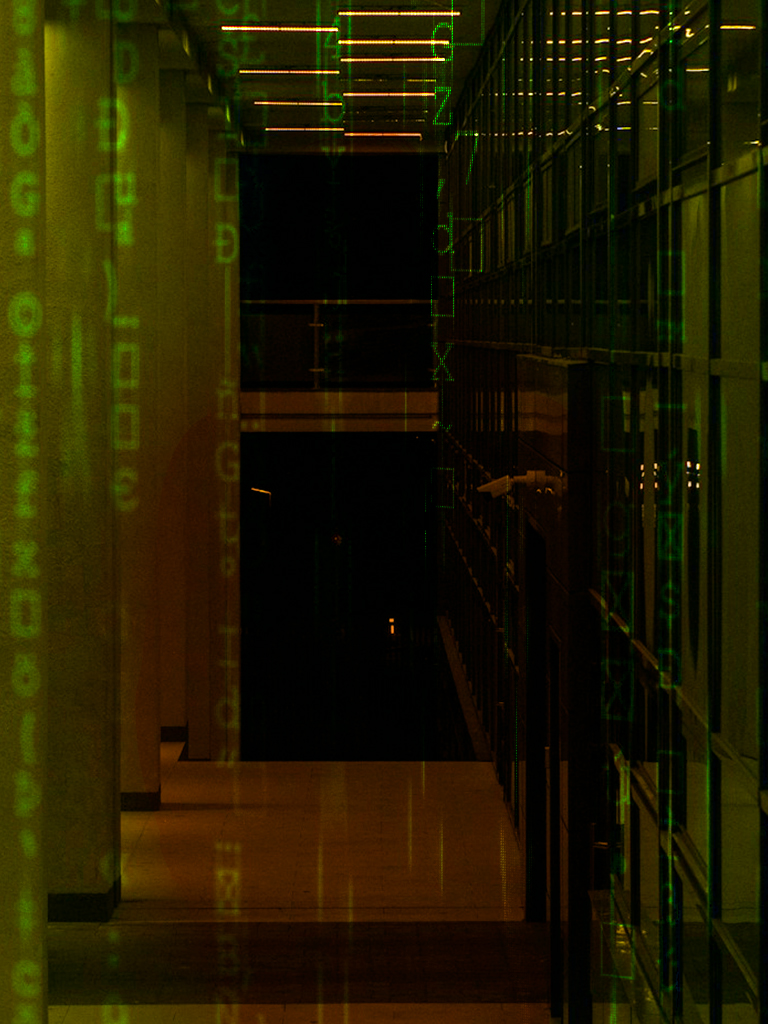
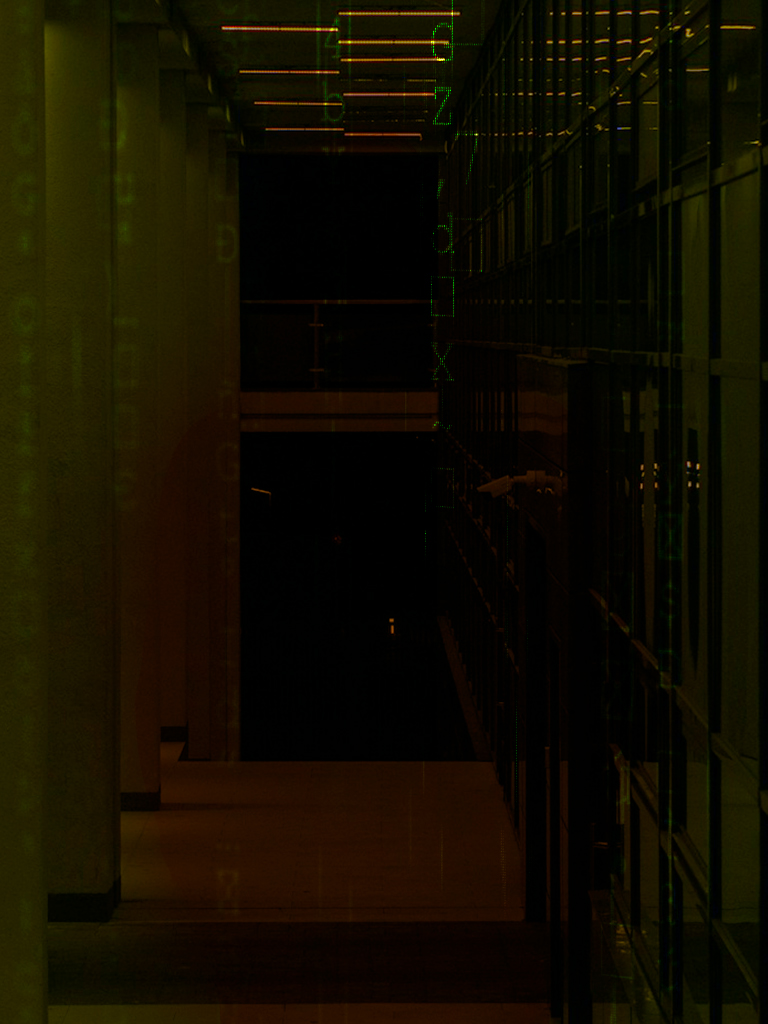
thumbnail fixes

diff --git a/assets/css/layouts/lightbox.css b/assets/css/layouts/lightbox.css
@@ -1,4 +1,15 @@
-.lightbox-content img {
+.bp-inner img {
     max-width: 100vw;
     max-height: 100vh;
+
+    object-fit: contain;
+    cursor: default;
 }
+
+.portfolio .bp-x,
+.bp-inner {
+    cursor: zoom-out;
+}
+
+
+

diff --git a/assets/css/page/cv.css b/assets/css/page/cv.css
@@ -127,6 +127,14 @@ ul {
     padding: 1.5rem;
     opacity: 0.35;
 }
+@media (min-width: 1400px) {
+    .actions {
+        width: var(--padding);
+    }
+    .actions__btn {
+        padding: 0;
+    }
+}
 .actions:hover {
     opacity: 1;
 }

diff --git a/scripts/script.js b/scripts/script.js
@@ -1,8 +1,8 @@
 document.addEventListener('DOMContentLoaded', function() {
   const bp = BiggerPicture({
-    target: document.body,
-    animation: 'fade',           // меняем анимацию на fade (вместо странного растяжения)
-    animationDuration: 150,      // длительность в мс
+      target: document.body,
+    intro: 'fade',
+    animationDuration: 150,      // длительность в мс      // длительность анимации в мс
     backgroundClose: true,       // закрытие по клику на фон
     keyboard: true,              // навигация с клавиатуры
     scrollable: true,            // разрешаем скролл внутри контента

diff --git a/_portfolio/merch.md b/_portfolio/merch.md
@@ -3,7 +3,7 @@ title: Перенос фирменного стиля на мерч
 date: 2026-03-10
 card-label: Мерч для ивента
 thumbnail: /assets/img/portfolio/merch/DH_thumbnail.jpg
-keyvisual: /assets/img/portfolio/merch/DH_hero.png
+keyvisual: /assets/img/portfolio/merch/DH_keyvisual.png
 cover: /assets/img/portfolio/merch/DH_cover.jpg
 excerpt: "Разработала мерч для IT‑ивента: от векторизации до готовых макетов под печать"
 tgID: 74